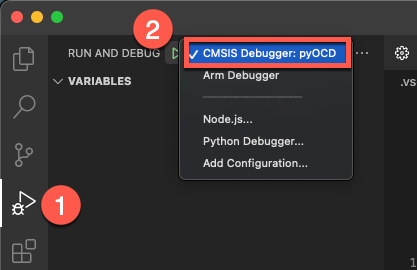
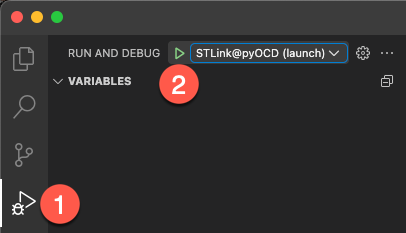
Documented new flow

diff --git a/uv2csolution/README.md b/uv2csolution/README.md
@@ -20,6 +20,15 @@ may demonstrate additional features of Keil Studio.
 2. Right-click the `wizard.uvprojx` file and choose **Convert µVision project to CMSIS solution**.
 3. Edit the generated `wizard.csolution.yml` and `wizard.cproject.yml` as follows:
 
+   - In `wizard.csolution.yml`, insert the following block in `- target-types\- type` section:
+  
+     ```yml
+          target-set:
+            - set: 
+              debugger:
+                name: ST-LINK
+     ```
+
    - In `wizard.csolution.yml`, insert the following block before the `- projects` section:
   
      ```yml
@@ -51,32 +60,10 @@ may demonstrate additional features of Keil Studio.
 ### Step 2: Configure Debugging
 
 1. Open the GUI view and add the Arm GNU Toolchain to `vcpkg_configuration.json` if not already present. Save the file.
-2. Navigate to **CMSIS View → Manage Solution Settings → Run and Debug**. Click **+ Add New** to create a new
-   debug configuration.
-3. Select **CMSIS Debugger: pyOCD**. This will generate a `.vscode/launch.json` file.
-4. In the **Explorer View**, go to `out/wizard/Target_1`, right-click `wizard.hex`, and choose **Copy Relative Path**.
-5. In the `.vscode/launch.json` file, update the `load` command (around line 15) to include:
-
-   ```json
-   "load out/wizard/Target_1/wizard.hex",
-   ```
-
-6. Open the `cbuild-run.yml` file and modify the `system-resources:` node:
-
-   - For all RAM entries, ensure:
-
-     ```yml
-             access: rwx
-     ```
-
-   - For all ROM entries, ensure:
-
-     ```yml
-             access: rx
-     ```
-
-> [!Note]
-> This step will be automated in a future version of CMSIS-Toolbox.
+2. Navigate to **CMSIS View → Manage Solution Settings → Run and Debug**. Click the drop-down arrow to create a new
+   **Debug Configuration**.
+3. Select **STLink@pyOCD (launch)**. This will generate a `.vscode/launch.json` and a `.vscode/tasks.json` file:  
+   ![Add the ST-Link adapter using pyOCD](./img/AddST-LINKLaunchConfig.png)
 
 ### Step 3: Open a Serial Terminal
 
@@ -87,7 +74,7 @@ may demonstrate additional features of Keil Studio.
 
 ### Step 4: Start the Debug Session
 
-1. Switch to the **Debug View** and select **CMSIS Debugger: pyOCD**.
+1. Switch to the **Debug View** and select **STLink@pyOCD (launch)**.
 2. Click the **Play** icon to launch the debug session.  
    ![Starting a debug session](./img/DebugView.png)
 
